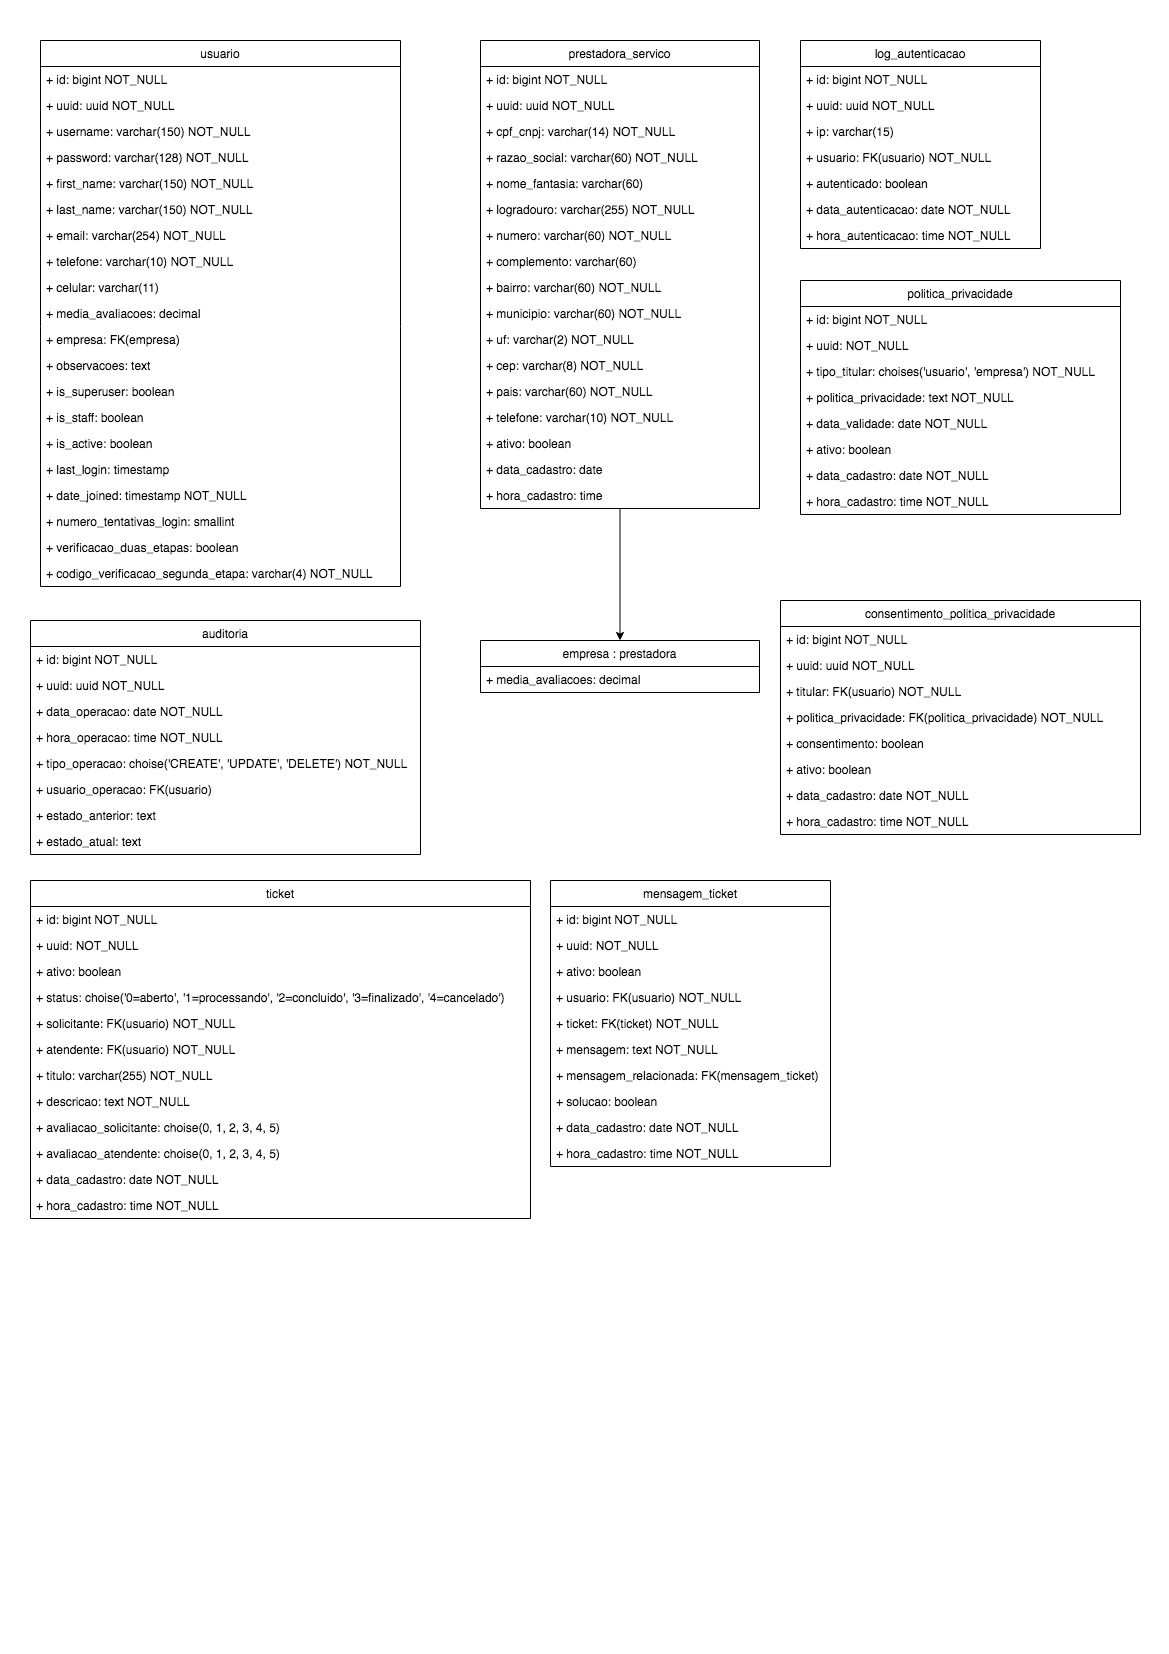
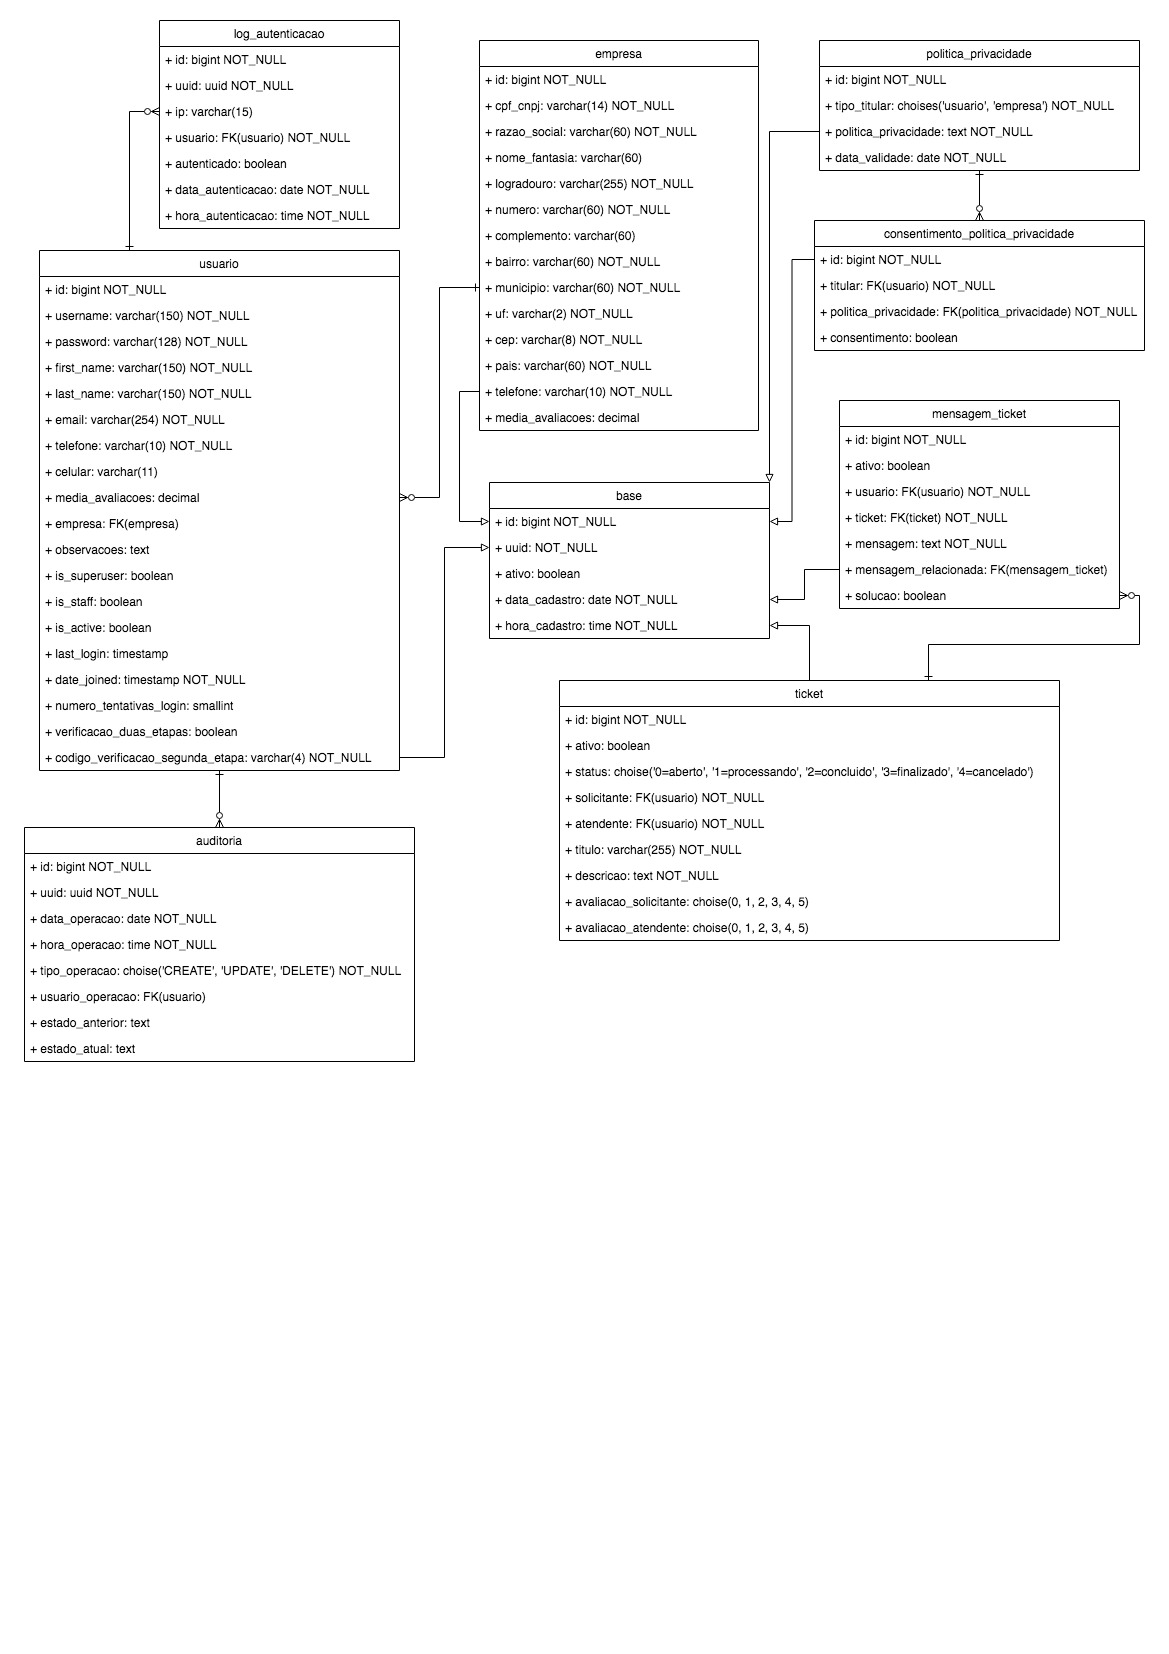
Ajustes nos serializers do usuario, empresa e log_autenticacao; Exclusão do app prestadora_servico

diff --git a/empresa/models.py b/empresa/models.py
@@ -1,11 +1,86 @@
 from django.db import models
-from prestadora_servico.models import PrestadoraServico
+from core.models import Base, UF_CHOICES, PAISES_CHOISES
 
 
-class Empresa(PrestadoraServico):
+class Empresa(Base):
     """
     Modelo responsável por armazenar as informações dos clientes da prestadora de serviço.
     """
+
+    cpf_cnpj = models.CharField(
+        verbose_name='CPF/CNPJ',
+        max_length=14,
+        help_text='CPF ou CNPJ da empresa(apenas números)',
+    )
+
+    razao_social = models.CharField(
+        verbose_name='Razão Social',
+        max_length=60,
+        help_text='Razão social(nome)',
+    )
+
+    nome_fantasia = models.CharField(
+        verbose_name='Nome Fantasia',
+        max_length=60,
+        help_text='Nome fantasia(apelido)',
+    )
+
+    logradouro = models.CharField(
+        verbose_name='Logradouro',
+        max_length=255,
+        help_text='Logradouro/Endereço ex: Rua Direita',
+    )
+
+    numero = models.CharField(
+        verbose_name='Número',
+        max_length=60,
+        help_text='Número do logradouro',
+    )
+
+    complemento = models.CharField(
+        verbose_name='Complemento',
+        max_length=60,
+        default='',
+        help_text='Complemento do endereço',
+    )
+
+    bairro = models.CharField(
+        verbose_name='Bairro',
+        max_length=60,
+        help_text='Bairro',
+    )
+
+    municipio = models.CharField(
+        verbose_name='Município',
+        max_length=60,
+        help_text='Município/Cidade',
+    )
+
+    uf = models.CharField(
+        verbose_name='UF',
+        max_length=2,
+        choices=UF_CHOICES,
+        help_text='UF ex: MG',
+    )
+
+    cep = models.CharField(
+        verbose_name='CEP',
+        max_length=8,
+        help_text='CEP(apenas números)',
+    )
+
+    pais = models.CharField(
+        verbose_name='País',
+        max_length=60,
+        choices=PAISES_CHOISES,
+        help_text='Nome do pais',
+    )
+
+    telefone = models.CharField(
+        verbose_name='Telefone',
+        max_length=10,
+        help_text='Número do telefone de contato(apenas números)',
+    )
 
     media_avaliacoes = models.DecimalField(
         verbose_name='Média das avaliações',
@@ -13,6 +88,13 @@ class Empresa(PrestadoraServico):
         decimal_places=1,
         default=0,
         help_text='Média das avaliações dos chamados',
+    )
+
+    prestadora_servico = models.BooleanField(
+        verbose_name='Prestadora Serviço',
+        default=False,
+        unique=True,
+        help_text='Se a empresa é a prestadora dos serviços ou não',
     )
 
     class Meta:

diff --git a/usuario/serializer.py b/usuario/serializer.py
@@ -1,39 +1,31 @@
 from rest_framework import serializers
 from .models import Usuario, LogAutenticacao
 from empresa.models import Empresa
+from empresa.serializer import EmpresaSerializer
 
 
 class UsuarioSerializer(serializers.ModelSerializer):
-    empresa = serializers.HyperlinkedRelatedField(
-        many=False,
-        allow_null=True,
-        view_name='empresa-detail',
-        queryset=Empresa.objects.all()
-    )
+    empresa = serializers.SlugRelatedField(read_only=True, slug_field='nome_fantasia')
 
     class Meta:
         model = Usuario
         read_only_fields = [
             'uuid',
             'last_login',
-            'date_joined',
             'media_avaliacoes',
-            'numero_tentativas_login',
-            'verificacao_duas_etapas',
         ]
         extra_kwargs = {
             'password': {'write_only': True},
             'codigo_verificacao_segunda_etapa': {'write_only': True},
-            'empresa': {'write_only': True},
             'first_name': {'allow_null': False, 'allow_blank': False},
             'last_name': {'allow_null': False, 'allow_blank': False},
             'email': {'allow_null': False, 'allow_blank': False},
         }
         fields = [
             'uuid',
-            'date_joined',
             'username',
             'password',
+            'codigo_verificacao_segunda_etapa',
             'first_name',
             'last_name',
             'email',
@@ -43,15 +35,20 @@ class UsuarioSerializer(serializers.ModelSerializer):
             'media_avaliacoes',
             'empresa',
             'last_login',
-            'numero_tentativas_login',
-            'verificacao_duas_etapas',
-            'codigo_verificacao_segunda_etapa',
             'is_superuser',
             'is_staff',
             'is_active',
             'groups',
             'user_permissions',
         ]
+
+
+class UsuarioSerializerCreate(UsuarioSerializer):
+    empresa = serializers.PrimaryKeyRelatedField(queryset=Empresa.objects.all())
+
+
+class UsuarioSerializerRetrieve(UsuarioSerializer):
+    empresa = EmpresaSerializer(read_only=True)
 
 
 class LogAutenticacaoSerializer(serializers.ModelSerializer):

diff --git a/tickets/urls.py b/tickets/urls.py
@@ -16,7 +16,6 @@ Including another URLconf
 
 from django.urls import path, include
 from usuario.urls import router_usuario, router_log_autenticacao
-from prestadora_servico.urls import router_prestadora_servico
 from empresa.urls import router_empresa
 from politica_privacidade.urls import router_politica_privacidade, router_consentimento_politica_privacidade
 from ticket.urls import router_ticket, router_mensagem_ticket
@@ -27,7 +26,6 @@ base_url_v1 = 'api/v1/'
 urlpatterns = [
     path(f'{base_url_v1}usuario/', include(router_usuario.urls)),
     path(f'{base_url_v1}log_autenticacao/', include(router_log_autenticacao.urls)),
-    path(f'{base_url_v1}prestadora_servico/', include(router_prestadora_servico.urls)),
     path(f'{base_url_v1}empresa/', include(router_empresa.urls)),
     path(f'{base_url_v1}politica_privacidade/', include(router_politica_privacidade.urls)),
     path(f'{base_url_v1}consentimento_politica_privacidade/', include(router_consentimento_politica_privacidade.urls)),

diff --git a/usuario/models.py b/usuario/models.py
@@ -5,17 +5,11 @@ from core.models import Base
 import uuid
 
 
-class Usuario(AbstractUser):
+class Usuario(AbstractUser, Base):
     """
     Modelo de usuários do sistema, tanto dos usuários que vão abrir, quanto aos que vão solucionar os tickets. No caso
     dos usuários que vão soluciuonar os tickets, eles não vão ter nenhuma empresa vinculada a eles.
     """
-
-    uuid = models.UUIDField(
-        verbose_name='UUID',
-        default=uuid.uuid4(),
-        help_text='UUID Código único não sequencial',
-    )
 
     telefone = models.CharField(
         verbose_name='Telefone',
@@ -44,7 +38,6 @@ class Usuario(AbstractUser):
         verbose_name='Empresa',
         related_name='empresa_empresa_usuario',
         on_delete=models.PROTECT,
-        null=True,
         help_text='Empresa a qual o usuário pertence',
     )
 

diff --git a/usuario/views.py b/usuario/views.py
@@ -1,11 +1,19 @@
 from rest_framework import viewsets, mixins
 from .models import Usuario, LogAutenticacao
-from .serializer import UsuarioSerializer, LogAutenticacaoSerializer
+from .serializer import UsuarioSerializer, UsuarioSerializerCreate, UsuarioSerializerRetrieve, LogAutenticacaoSerializer
 
 
 class UsuarioViewSet(viewsets.ModelViewSet):
     queryset = Usuario.objects.all()
-    serializer_class = UsuarioSerializer
+
+    serializer_classes = {
+        'create': UsuarioSerializerCreate,
+        'retrieve': UsuarioSerializerRetrieve,
+    }
+
+    def get_serializer_class(self):
+        print(self.action)
+        return self.serializer_classes.get(self.action, UsuarioSerializer)
 
 
 class LogAutenticacaoViewSet(mixins.CreateModelMixin, mixins.RetrieveModelMixin, mixins.ListModelMixin,

diff --git a/empresa/serializer.py b/empresa/serializer.py
@@ -5,4 +5,26 @@ from .models import Empresa
 class EmpresaSerializer(serializers.ModelSerializer):
     class Meta:
         model = Empresa
-        fields = '__all__'
+        read_only_fields = [
+            'uuid',
+            'prestadora_servico',
+            'media_avaliacoes',
+        ]
+        fields = [
+            'uuid',
+            'cpf_cnpj',
+            'razao_social',
+            'nome_fantasia',
+            'logradouro',
+            'numero',
+            'complemento',
+            'bairro',
+            'municipio',
+            'uf',
+            'cep',
+            'pais',
+            'telefone',
+            'media_avaliacoes',
+            'prestadora_servico',
+            'ativo',
+        ]

diff --git a/tickets/settings.py b/tickets/settings.py
@@ -49,7 +49,6 @@ INSTALLED_APPS = [
     'empresa',
     'politica_privacidade',
     'auditoria',
-    'prestadora_servico',
     'ticket',
 ]
 
